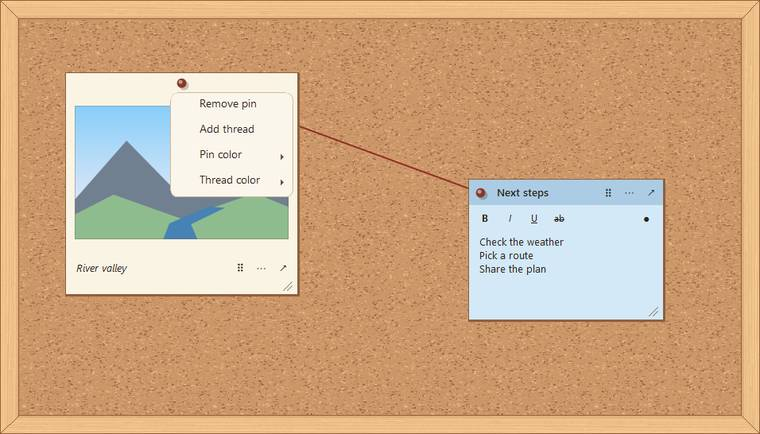
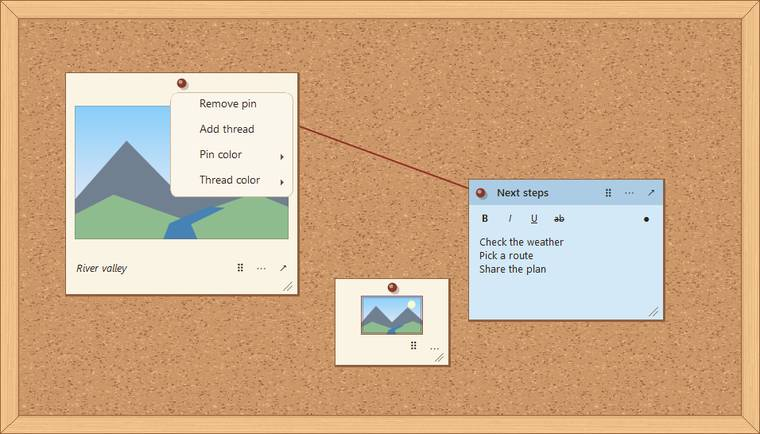
Postage-stamp frames (v0.5.2)

Changed region(s): [[0.4237, 0.629, 0.6053, 0.8687]]

diff --git a/src/Corkboard/NoteCard.cs b/src/Corkboard/NoteCard.cs
@@ -1,3 +1,4 @@
+using System.Drawing.Drawing2D;
 using System.Runtime.InteropServices;
 
 namespace Corkboard;
@@ -5,16 +6,20 @@ namespace Corkboard;
 internal sealed class NoteCard : UserControl
 {
     public static readonly Size InitialCardSize = new(248, 184);
-    public static readonly Size Smallest = new(224, 144);
     public static readonly Size Largest = new(1400, 1100);
+    private static readonly Size MinimumTextSize = new(224, 144);
+    private static readonly Size MinimumImageSize = new(110, 112);
     private readonly BoardWindow board;
     private readonly StickyNote note;
     private readonly RichTextBox? editor;
     private readonly Button label;
+    private readonly Button options;
     private readonly Button? pin;
+    private readonly Button? photoPop;
     private readonly Label grip;
     private readonly Panel header;
     private readonly Panel? photoCaption;
+    private readonly PictureBox? photoPrint;
     private readonly Panel? toolbar;
     private readonly Panel writingArea;
     private readonly Panel? resizeFooter;
@@ -31,6 +36,9 @@ internal sealed class NoteCard : UserControl
     private Size resizeOrigin;
     private bool refreshing;
     private bool connectionTarget;
+    private bool stamp;
+
+    public static Size MinimumSizeFor(StickyNote note) => note.ImageFile is null ? MinimumTextSize : MinimumImageSize;
 
     public NoteCard(BoardWindow board, StickyNote note, bool floating, Action? moveWindow = null, Image? image = null)
     {
@@ -50,9 +58,9 @@ internal sealed class NoteCard : UserControl
             writingArea.Padding = new Padding(11, 0, 11, 0);
             if (image is not null)
             {
-                var print = new PictureBox { Image = image, SizeMode = PictureBoxSizeMode.Zoom, Dock = DockStyle.Fill, AccessibleName = "Attached image" };
-                print.Paint += DrawPhotoEdge;
-                writingArea.Controls.Add(print);
+                photoPrint = new PictureBox { Image = image, SizeMode = PictureBoxSizeMode.Zoom, Dock = DockStyle.Fill, AccessibleName = "Attached image" };
+                photoPrint.Paint += DrawPhotoEdge;
+                writingArea.Controls.Add(photoPrint);
             }
             else writingArea.Controls.Add(new Label { Text = "Image unavailable", ForeColor = BoardStyle.Muted, Dock = DockStyle.Fill, TextAlign = ContentAlignment.MiddleCenter });
         }
@@ -101,12 +109,13 @@ internal sealed class NoteCard : UserControl
         }
         commands.Controls.Add(grip);
 
-        Button options = HeaderButton("⋯", "Note options", DockStyle.Right);
+        options = HeaderButton("⋯", "Note options", DockStyle.Right);
         options.Click += (_, _) => menu.Show(options, new Point(0, options.Height));
         commands.Controls.Add(options);
         if (!floating)
         {
             Button pop = HeaderButton("↗", "Pop out note", DockStyle.Right);
+            if (isImage) photoPop = pop;
             pop.Click += (_, _) => board.PopOut(note);
             commands.Controls.Add(pop);
             pin = HeaderButton("", "Pin note", isImage ? DockStyle.None : DockStyle.Left);
@@ -201,7 +210,7 @@ internal sealed class NoteCard : UserControl
             resizeGrip.KeyDown += ResizeWithKeyboard;
             resizeFooter.Controls.Add(resizeGrip);
             paper.Controls.Add(resizeFooter);
-            SizeChanged += (_, _) => BoardStyle.RoundCorners(this, LogicalToDeviceUnits(isImage ? 2 : 7));
+            SizeChanged += (_, _) => UpdateCardFrame();
         }
         if (toolbar is not null) paper.Controls.Add(toolbar);
         paper.Controls.Add(header);
@@ -226,7 +235,8 @@ internal sealed class NoteCard : UserControl
     public void FocusEditor()
     {
         if (editor is not null) editor.Focus();
-        else label.Focus();
+        else if (label.Visible) label.Focus();
+        else options.Focus();
     }
 
     public void RefreshLabel()
@@ -283,14 +293,69 @@ internal sealed class NoteCard : UserControl
         RefreshFormattingButtons();
     }
 
-    private static void DrawPhotoEdge(object? sender, PaintEventArgs e)
+    private void DrawPhotoEdge(object? sender, PaintEventArgs e)
     {
         if (sender is not PictureBox { Image: Image image } print || print.Width < 2 || print.Height < 2) return;
         double scale = Math.Min((double)print.Width / image.Width, (double)print.Height / image.Height);
         int width = Math.Max(1, (int)(image.Width * scale));
         int height = Math.Max(1, (int)(image.Height * scale));
-        using var pen = new Pen(Color.FromArgb(95, BoardStyle.Muted));
-        e.Graphics.DrawRectangle(pen, (print.Width - width) / 2, (print.Height - height) / 2, width - 1, height - 1);
+        using var pen = new Pen(stamp ? Color.FromArgb(205, BoardStyle.Brick) : Color.FromArgb(95, BoardStyle.Muted));
+        var border = new Rectangle((print.Width - width) / 2, (print.Height - height) / 2, width - 1, height - 1);
+        e.Graphics.DrawRectangle(pen, border);
+        if (stamp && width > 12 && height > 12)
+        {
+            pen.Color = Color.FromArgb(120, BoardStyle.Brick);
+            e.Graphics.DrawRectangle(pen, Rectangle.Inflate(border, -2, -2));
+        }
+    }
+
+    private void UpdateCardFrame()
+    {
+        if (photoCaption is null || resizeFooter is null)
+        {
+            BoardStyle.RoundCorners(this, LogicalToDeviceUnits(7));
+            return;
+        }
+
+        bool compact = Width < LogicalToDeviceUnits(238) || Height < LogicalToDeviceUnits(184);
+        if (stamp != compact)
+        {
+            stamp = compact;
+            label.Visible = !stamp;
+            if (photoPop is not null) photoPop.Visible = !stamp;
+            header.Height = LogicalToDeviceUnits(stamp ? 21 : 25);
+            if (pin is not null) pin.Height = LogicalToDeviceUnits(stamp ? 21 : 24);
+            photoCaption.Height = LogicalToDeviceUnits(stamp ? 23 : 36);
+            resizeFooter.Height = LogicalToDeviceUnits(stamp ? 15 : 17);
+            int inset = LogicalToDeviceUnits(stamp ? 9 : 11);
+            writingArea.Padding = new Padding(inset, 0, inset, 0);
+            photoPrint?.Invalidate();
+        }
+
+        if (!stamp)
+        {
+            BoardStyle.RoundCorners(this, LogicalToDeviceUnits(2));
+            return;
+        }
+
+        int radius = LogicalToDeviceUnits(3);
+        int pitch = LogicalToDeviceUnits(10);
+        using var holes = new GraphicsPath(FillMode.Winding);
+        for (int x = pitch; x < Width - radius; x += pitch)
+        {
+            holes.AddEllipse(x - radius, -radius, radius * 2, radius * 2);
+            holes.AddEllipse(x - radius, Height - radius, radius * 2, radius * 2);
+        }
+        for (int y = pitch; y < Height - radius; y += pitch)
+        {
+            holes.AddEllipse(-radius, y - radius, radius * 2, radius * 2);
+            holes.AddEllipse(Width - radius, y - radius, radius * 2, radius * 2);
+        }
+        var edge = new Region(ClientRectangle);
+        edge.Exclude(holes);
+        Region? previous = Region;
+        Region = edge;
+        previous?.Dispose();
     }
 
     protected override bool ProcessCmdKey(ref Message message, Keys keys)
@@ -408,8 +473,9 @@ internal sealed class NoteCard : UserControl
         e.Graphics.SmoothingMode = System.Drawing.Drawing2D.SmoothingMode.AntiAlias;
         int right = grip.Width - 7;
         int bottom = grip.Height - 5;
-        e.Graphics.DrawLine(pen, right - 11, bottom, right, bottom - 11);
-        e.Graphics.DrawLine(pen, right - 6, bottom, right, bottom - 6);
+        int length = Math.Max(2, Math.Min(bottom, 11));
+        e.Graphics.DrawLine(pen, right - length, bottom, right, bottom - length);
+        e.Graphics.DrawLine(pen, right - Math.Min(6, length), bottom, right, bottom - Math.Min(6, length));
     }
 
     private void StartResize(object? sender, MouseEventArgs e)
@@ -451,7 +517,7 @@ internal sealed class NoteCard : UserControl
 
     private void SetCardSize(int width, int height)
     {
-        Size size = board.LimitCardResize(Location, new Size(width, height));
+        Size size = board.LimitCardResize(note, Location, new Size(width, height));
         SetCardBounds(new Rectangle(Location, size));
     }
 

diff --git a/src/Corkboard/BoardWindow.cs b/src/Corkboard/BoardWindow.cs
@@ -277,7 +277,7 @@ internal sealed class BoardWindow : ResizableWindow
     {
         actions.Visible = false;
         ClearSelectionMode();
-        Size size = LimitCardResize(CardArea.Location, PreferredCardSize(note));
+        Size size = LimitCardResize(note, CardArea.Location, PreferredCardSize(note));
         Point position = click is Point point ? new Point(point.X - Pixels(14), point.Y - Pixels(15)) : NextOpenPosition(size);
         Point fitted = LimitCardMove(position, size);
         if (note.ImageFile is null) note.Color = board.Notes.Count % BoardStyle.Colors.Length;
@@ -319,13 +319,14 @@ internal sealed class BoardWindow : ResizableWindow
             Math.Clamp(wanted.Y, area.Top, Math.Max(area.Top, area.Bottom - size.Height)));
     }
 
-    public Size LimitCardResize(Point anchor, Size wanted)
+    public Size LimitCardResize(StickyNote note, Point anchor, Size wanted)
     {
         Rectangle area = CardArea;
         int width = Math.Max(1, Math.Min(Pixels(NoteCard.Largest.Width), area.Right - anchor.X));
         int height = Math.Max(1, Math.Min(Pixels(NoteCard.Largest.Height), area.Bottom - anchor.Y));
-        return new Size(Math.Clamp(wanted.Width, Math.Min(Pixels(NoteCard.Smallest.Width), width), width),
-            Math.Clamp(wanted.Height, Math.Min(Pixels(NoteCard.Smallest.Height), height), height));
+        Size minimum = NoteCard.MinimumSizeFor(note);
+        return new Size(Math.Clamp(wanted.Width, Math.Min(Pixels(minimum.Width), width), width),
+            Math.Clamp(wanted.Height, Math.Min(Pixels(minimum.Height), height), height));
     }
 
     public void ChangeText(StickyNote note, string text, string rtf, NoteCard sender)
@@ -782,14 +783,17 @@ internal sealed class BoardWindow : ResizableWindow
     private Rectangle CardArea => new(Pixels(12), Pixels(12), Math.Max(1, canvas.ClientSize.Width - Pixels(24)),
         Math.Max(1, canvas.ClientSize.Height - Pixels(72)));
 
-    private Size PreferredCardSize(StickyNote note) => new(
-        Pixels(ClampDimension(note.CardWidth, NoteCard.InitialCardSize.Width, NoteCard.Smallest.Width, NoteCard.Largest.Width)),
-        Pixels(ClampDimension(note.CardHeight, NoteCard.InitialCardSize.Height, NoteCard.Smallest.Height, NoteCard.Largest.Height)));
+    private Size PreferredCardSize(StickyNote note)
+    {
+        Size minimum = NoteCard.MinimumSizeFor(note);
+        return new Size(Pixels(ClampDimension(note.CardWidth, NoteCard.InitialCardSize.Width, minimum.Width, NoteCard.Largest.Width)),
+            Pixels(ClampDimension(note.CardHeight, NoteCard.InitialCardSize.Height, minimum.Height, NoteCard.Largest.Height)));
+    }
 
     private Rectangle PreferredCardBounds(StickyNote note)
     {
         var position = new Point(Pixels(Math.Clamp(note.X, 0, 16384)), Pixels(Math.Clamp(note.Y, 0, 16384)));
-        return FitPreferredCard(position, PreferredCardSize(note));
+        return FitPreferredCard(note, position, PreferredCardSize(note));
     }
 
     private Image? ReadImage(StickyNote note)
@@ -799,12 +803,13 @@ internal sealed class BoardWindow : ResizableWindow
         return image;
     }
 
-    private Rectangle FitPreferredCard(Point location, Size wanted)
+    private Rectangle FitPreferredCard(StickyNote note, Point location, Size wanted)
     {
         Rectangle area = CardArea;
-        var minimum = new Size(Math.Min(Pixels(NoteCard.Smallest.Width), area.Width), Math.Min(Pixels(NoteCard.Smallest.Height), area.Height));
+        Size requestedMinimum = NoteCard.MinimumSizeFor(note);
+        var minimum = new Size(Math.Min(Pixels(requestedMinimum.Width), area.Width), Math.Min(Pixels(requestedMinimum.Height), area.Height));
         Point anchor = LimitCardMove(location, minimum);
-        return new Rectangle(anchor, LimitCardResize(anchor, wanted));
+        return new Rectangle(anchor, LimitCardResize(note, anchor, wanted));
     }
 
     private void OpenFloating(StickyNote note, bool activate)

diff --git a/README.md b/README.md
@@ -4,15 +4,19 @@
 
 Pin notes and photos to a classic corkboard on your Windows desktop. The app is small, works offline, and saves your board on your PC without an account. Pop out a sticky note when you want it in view, then tuck the board into the tray.
 
-## In v0.5.1
+## In v0.5.2
 
-**Instant-photo frames.** Gave image cards cream paper borders, bottom captions, and centered pins.
+**Postage-stamp frames.** Made smaller image cards look like perforated stamps and larger cards look like instant photos, with the same saved pin and thread connections.
 
 ## Screenshots
 
-![An instant-photo card connected to a note](docs/images/release-0.5.1.jpg)
+![An instant-photo card and a smaller postage-stamp image on one board](docs/images/release-0.5.2.jpg)
 
-The instant-photo frame and bottom caption. (v0.5.1)
+Two sizes of image card on the same board. (v0.5.2)
+
+![A pinned instant-photo card connected to a sticky note with a red thread](docs/images/instant-photo.jpg)
+
+A photo card connected to a note on the wooden board (v0.5.2).
 
 ## Requirements
 
@@ -58,7 +62,7 @@ Open `artifacts\win-x64\Corkboard.exe` on an x64 Windows PC with the .NET 8 Desk
 ### Images
 
 - Choose **Board menu → Add image…** and select a local photo. Resize it with the corner grip. Pin, connect, or pop out the image using the card controls.
-- Image cards use an instant-photo frame with a bottom caption and a centered pin. Click the caption to edit it.
+- Resize an image card smaller for a postage-stamp frame or larger for an instant-photo frame. Its pin and threads stay attached.
 
 ### Local storage and backups
 

diff --git a/CHANGELOG.md b/CHANGELOG.md
@@ -1,5 +1,9 @@
 # Changelog
 
+## 0.5.2 — Postage-stamp frames
+
+- Made smaller image cards look like perforated stamps and larger cards look like instant photos, with the same saved pin and thread connections.
+
 ## 0.5.1 — Instant-photo frames
 
 - Gave image cards cream paper borders, bottom captions, and centered pins.
